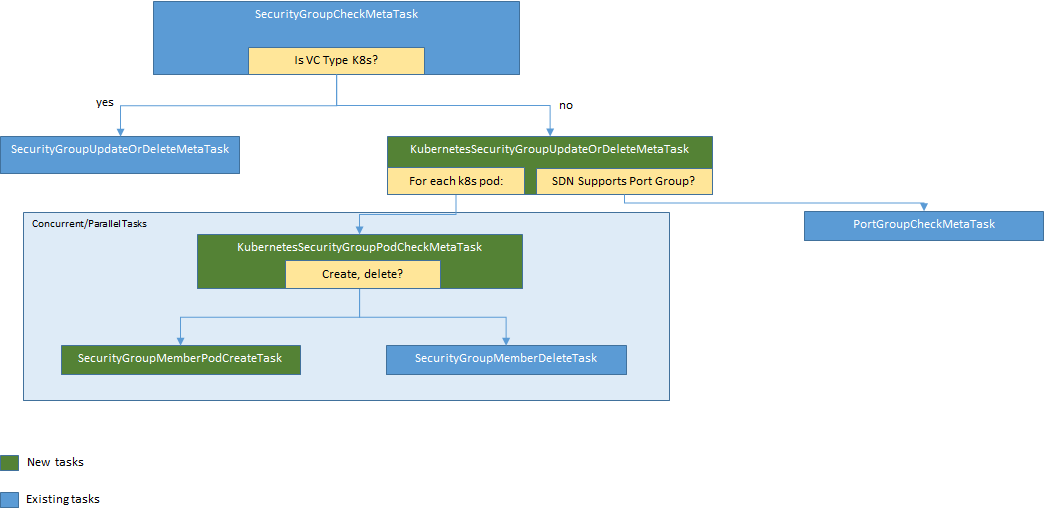
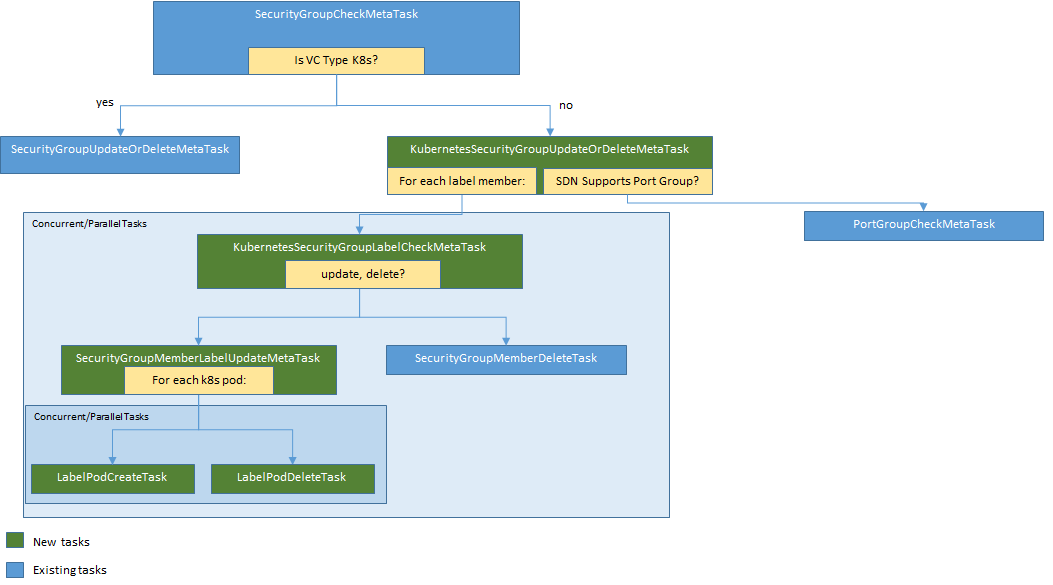
Updating the tasks for align with the new entity model

diff --git a/designs/containers/workload-discovery/workload-discovery.md b/designs/containers/workload-discovery/workload-discovery.md
@@ -179,10 +179,12 @@ The diagram below depicts the tasks and metatasks involved on this change:
 ![](./images/discovery-tasks.png)  
 *Tasks and Metatasks for Synchronizing Security Group Members*
 * **SecurityGroupCheckMetaTask**: This metatask will continue mostly as is, but for SGs of Virtualization Connectors of type Kubernetes it will add to the graph `KubernetesSecurityGroupUpdateOrDeleteMetaTask` instead of the existing `SecurityGroupUpdateOrDeleteMetatask`.  
-* KubernetesSecurityGroupUpdateOrDeleteMetaTask: The main purpose of this task is to discover all the relevant K8s pod using the `KubernetesPodApi` providing the security group label and for each of them add to the graph the metatask `KubernetesSecurityGroupPodCheckMetaTask`. Similarly to the existing `SecurityGroupUpdateOrDeleteMetatask` this task will also add the existing task PortGroupCheckMetaTask if the SDN controller supports port group.  
-* **KubernetesSecurityGroupPodCheckMetaTask**: This metatask forks the graph in three possible options for a given pod: creation or delete. Observe that pod updates are not expected, any changes on the pod: name, namespace, node, network info should represent a new pod (K8s does not currently support pod migration). Once binding is developed this metatask will also include tasks to synchronize information with the SDN controller.  
-* **SecurityGroupMemberPodCreateTask:** This task will make use of the existing method `BaseSecurityGroupService.addSecurityGroupMember` to add a member of type `Pod` with its respective port information.  
-* **SecurityMemberDeleteTask**: This existing task is currently responsible for deleting security members, entities (VM, network, etc) and ports when applicable. It will remain mostly the same but also handling the member type `Pod`. 
+* **KubernetesSecurityGroupUpdateOrDeleteMetaTask:** The main purpose of this task is to trigger the task `KubernetesSecurityGroupLabelCheckMetTask` for each label security group member. Similarly to the existing `SecurityGroupUpdateOrDeleteMetatask` this task will also add the existing task `PortGroupCheckMetaTask` if the SDN controller supports port group.  
+* **KubernetesSecurityGroupLabelCheckMetaTask:** This metatask forks the graph in two possible options for a given label security member: update or deletion, adding to the graph either `SecurityGroupMemberLabelUpdateMetaTask` or 
+* **SecurityGropuMemberDeleteTask**: This existing task is currently responsible for deleting security members, entities (VM, network, etc) and ports when applicable. It will remain mostly the same but also handling the member type `Label`.  
+* **SecurityGroupMemberLabelUpdateMetaTask:** The main purpose of this task is to list the K8s pods using the `KubernetesPodApi` and checking if a new pod needs to be created or an existing one must be deleted.  Observe that pod updates are not expected, any changes on the pod: name, namespace, node, network info should represent a new pod (K8s does not currently support pod migration). Once binding is developed this metatask will also include tasks to synchronize information with the SDN controller.  `
+* **LabelPodCreateTask:** This task is responsible for retrieving additional network information from the SDN controller related to the targeted pod and it will persit the pod with that information on the OSC db.  `
+* **LabelPodDeleteTask:** This task is responsible for purging pod and pod network information from the OSC db.  `
 
 ## Tests
 **TBD on next revision**
